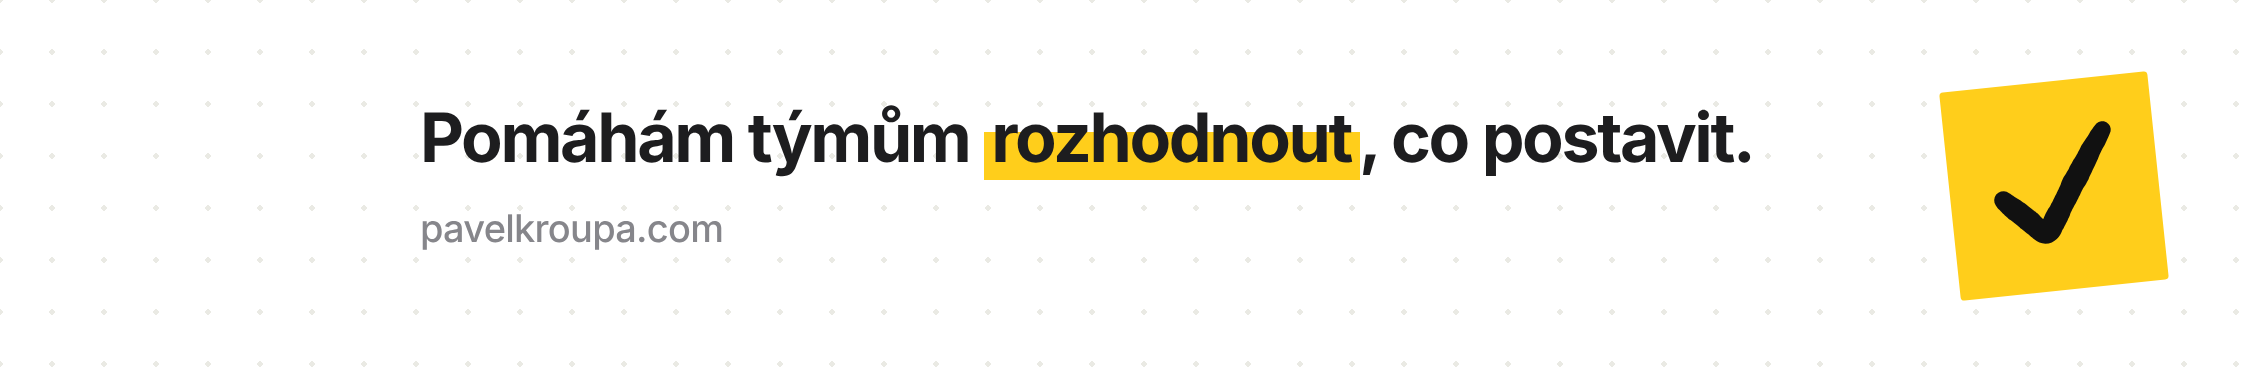
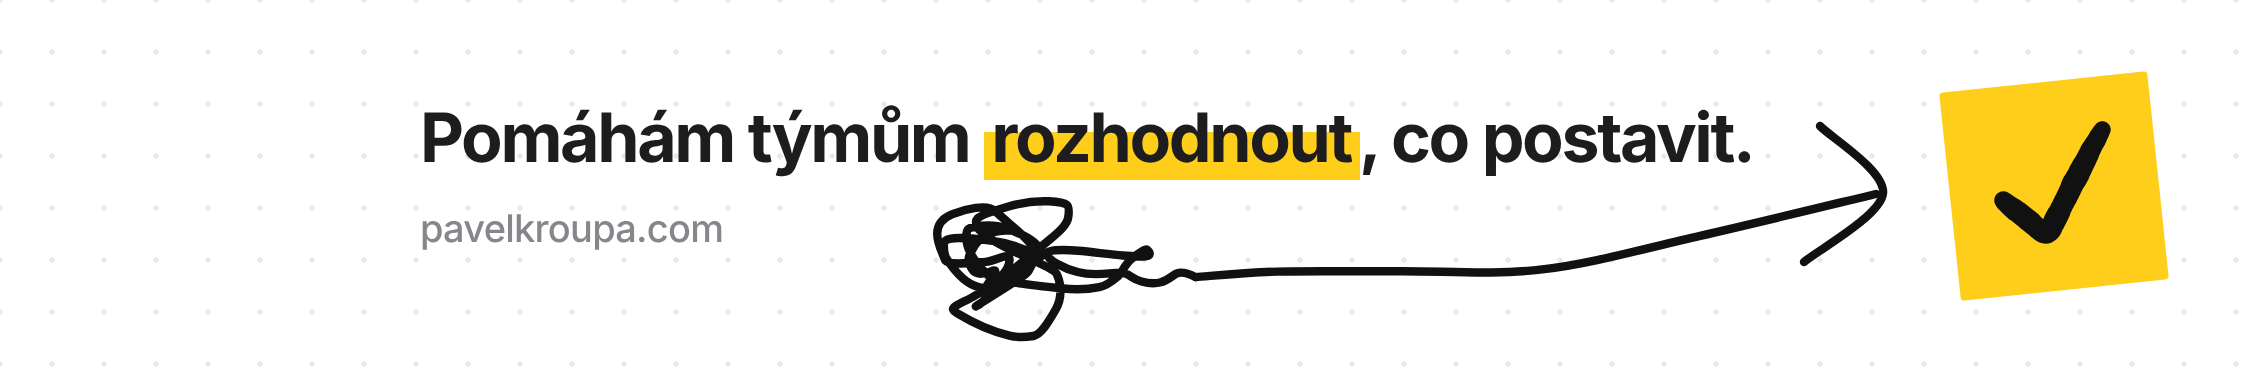
LinkedIn company cover: small tangle under the headline, line rises to an arrow pointing at the check sticker
Claude-Session: https://claude.ai/code/session_01Ra2rbXUWyeqS39GHjRg1HA

Changed region(s): [[0.4034, 0.3168, 0.8378, 0.8927], [0.7757, 0.6623, 0.8067, 0.6911]]

diff --git a/ds/index.html b/ds/index.html
@@ -482,7 +482,7 @@
         <div class="ds-card"><span class="ds-k">Logo pk</span><ul class="ds-files"><li><a href="/logo/pk/pk-svetle-1024.png" download>pk-svetle-1024.png</a><span>32 kB</span></li><li><a href="/logo/pk/pk-svetle-ctverec-1024.png" download>pk-svetle-ctverec-1024.png</a><span>20 kB</span></li><li><a href="/logo/pk/pk-svetle-ctverec-400.png" download>pk-svetle-ctverec-400.png</a><span>7 kB</span></li><li><a href="/logo/pk/pk-svetle-ctverec.svg" download>pk-svetle-ctverec.svg</a><span>7 kB</span></li><li><a href="/logo/pk/pk-svetle.svg" download>pk-svetle.svg</a><span>7 kB</span></li><li><a href="/logo/pk/pk-tmave-1024.png" download>pk-tmave-1024.png</a><span>28 kB</span></li><li><a href="/logo/pk/pk-tmave-ctverec-1024.png" download>pk-tmave-ctverec-1024.png</a><span>20 kB</span></li><li><a href="/logo/pk/pk-tmave-ctverec-400.png" download>pk-tmave-ctverec-400.png</a><span>7 kB</span></li><li><a href="/logo/pk/pk-tmave-ctverec.svg" download>pk-tmave-ctverec.svg</a><span>7 kB</span></li><li><a href="/logo/pk/pk-tmave.svg" download>pk-tmave.svg</a><span>7 kB</span></li></ul></div>
         <div class="ds-card"><span class="ds-k">Lepítko</span><ul class="ds-files"><li><a href="/logo/logo-1024.png" download>logo-1024.png</a><span>31 kB</span></li><li><a href="/logo/logo-512.png" download>logo-512.png</a><span>14 kB</span></li><li><a href="/logo/logo-na-bile-1024.png" download>logo-na-bile-1024.png</a><span>43 kB</span></li><li><a href="/logo/logo-na-cerne-1024.png" download>logo-na-cerne-1024.png</a><span>27 kB</span></li><li><a href="/logo/logo-pk-1024.png" download>logo-pk-1024.png</a><span>35 kB</span></li><li><a href="/logo/logo-pk.svg" download>logo-pk.svg</a><span>8 kB</span></li><li><a href="/logo/logo-stin-1024.png" download>logo-stin-1024.png</a><span>65 kB</span></li><li><a href="/logo/logo.svg" download>logo.svg</a><span>5 kB</span></li></ul></div>
         <div class="ds-card"><span class="ds-k">Ikony</span><ul class="ds-files"><li><a href="/favicon.svg" download>favicon.svg</a><span>5 kB</span></li><li><a href="/favicon.ico" download>favicon.ico</a><span>3 kB</span></li><li><a href="/apple-touch-icon.png" download>apple-touch-icon.png</a><span>3 kB</span></li><li><a href="/icon-192.png" download>icon-192.png</a><span>11 kB</span></li><li><a href="/icon-512.png" download>icon-512.png</a><span>14 kB</span></li><li><a href="/site.webmanifest" download>site.webmanifest</a><span>406 B</span></li></ul></div>
-        <div class="ds-card"><span class="ds-k">LinkedIn</span><ul class="ds-files"><li><a href="/linkedin/linkedin-profil-cs.png" download>linkedin-profil-cs.png</a><span>130 kB</span></li><li><a href="/linkedin/linkedin-profil-en.png" download>linkedin-profil-en.png</a><span>131 kB</span></li><li><a href="/linkedin/linkedin-firma-logo-400.png" download>linkedin-firma-logo-400.png</a><span>7 kB</span></li><li><a href="/linkedin/linkedin-firma-cover-cs.png" download>linkedin-firma-cover-cs.png</a><span>38 kB</span></li><li><a href="/linkedin/linkedin-firma-cover-en.png" download>linkedin-firma-cover-en.png</a><span>36 kB</span></li></ul></div>
+        <div class="ds-card"><span class="ds-k">LinkedIn</span><ul class="ds-files"><li><a href="/linkedin/linkedin-profil-cs.png" download>linkedin-profil-cs.png</a><span>130 kB</span></li><li><a href="/linkedin/linkedin-profil-en.png" download>linkedin-profil-en.png</a><span>131 kB</span></li><li><a href="/linkedin/linkedin-firma-logo-400.png" download>linkedin-firma-logo-400.png</a><span>7 kB</span></li><li><a href="/linkedin/linkedin-firma-cover-cs.png" download>linkedin-firma-cover-cs.png</a><span>55 kB</span></li><li><a href="/linkedin/linkedin-firma-cover-en.png" download>linkedin-firma-cover-en.png</a><span>53 kB</span></li></ul></div>
         <div class="ds-card"><span class="ds-k">Písmo Shantell Sans</span><ul class="ds-files"><li><a href="/assets/fonts/shantell-sans-latin-ext-abd01b55.woff2" download>shantell-sans-latin-ext.woff2</a><span>36 kB</span></li><li><a href="/assets/fonts/shantell-sans-latin-086ca6b5.woff2" download>shantell-sans-latin.woff2</a><span>77 kB</span></li><li><a href="/assets/fonts/shantell-sans-cs-0f694d8f.woff2" download>shantell-sans-cs.woff2</a><span>8 kB</span></li></ul>
           <p style="margin-top:12px">Celá rodina na <a href="https://fonts.google.com/specimen/Shantell+Sans" rel="noopener">Google Fonts</a>, licence SIL OFL 1.1.</p></div>
       </div>
